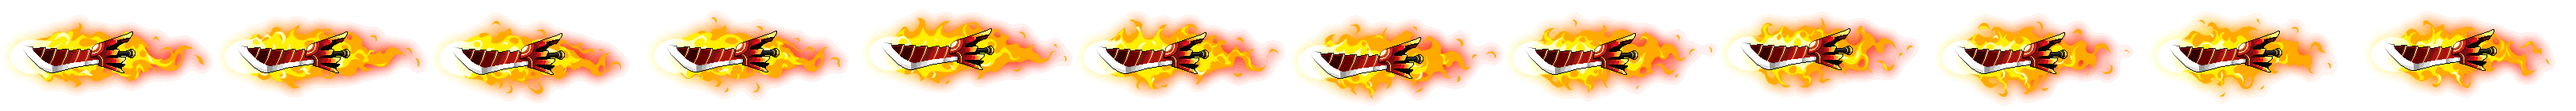
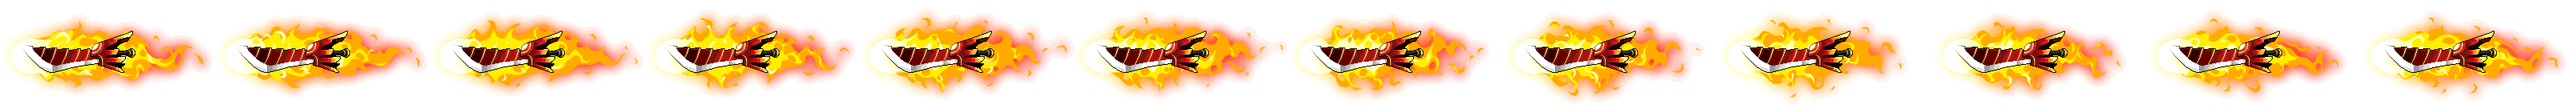
- Finished the flying sword hover animation (flames are in)
Also, some of the spritesheets for the flying sword flames had to be fixed because the frames were placed in the wrong order

diff --git a/js/skills.js b/js/skills.js
@@ -631,29 +631,73 @@ function flyingSwords() {
     }
     else {
         flyingSwordsAreUp = true;
+        let swordCount = 0;
         positions.forEach((someCoords) => {
             group = drawAnItemWithoutAnimating(1402179, 'stand1', 0, someCoords[0], someCoords[1], 135);
-            group.forEach((part) => {
-                part.classList.add('specialHoveringAnimation');
-            });
+            let additionalOffsets = [0, -64];
+            additionalOffsets[0] -= someCoords[0];
+            additionalOffsets[1] -= someCoords[1];
+            let additionalOffsets2 = [-40, -57];
+            additionalOffsets2[0] -= someCoords[0];
+            additionalOffsets2[1] -= someCoords[1];
+            directionDependentXOffset = 0;
+            directionDependentXOffset2 = 0;
+            if (swordCount == 1) {
+                directionDependentXOffset -= 100;
+                directionDependentXOffset2 -= 100;
+            }
+            if (swordCount == 2) {
+                directionDependentXOffset += 100;
+                directionDependentXOffset2 += 100;
+            }
+            swordCount++;
+            // flames
             let div = document.createElement('div');
             div.style.position = 'absolute';
             div.style.backgroundPositionX = '0px';
-            div.style.backgroundImage = 'url(./skills/forceAtom/forxeAtom2atom1parentAtom.png)';
-            let dimensions = skillEffect[0];
-            div.style.width = dimensions[0] + 'px';
-            div.style.height = dimensions[1] + 'px';
-            let origin = skillEffect[1];
-            div.style.top = AVATAR.offsetTop - origin[1] + additionalOffsets[1] + 'px';
+            div.style.backgroundImage = 'url(./skills/forceAtom/forceAtom2atom1parentAtom.png)';
+            let particleDimensions = classSkills[61101002].particles.dimensions.forceAtom2atom1parentAtom;
+            div.style.width = particleDimensions[0] + 'px';
+            div.style.height = particleDimensions[1] + 'px';
+            let origin = classSkills[61101002].particles.origins.forceAtom2atom1parentAtom;
+            //div.style.top = AVATAR.offsetTop - origin[1] + additionalOffsets[1] + 'px';
+            div.style.top = origin[1] + additionalOffsets[1] + 'px';
             div.style.transform = AVATAR.style.transform || 'scaleX(-1)';
             if (AVATAR.style.transform == '' || AVATAR.style.transform == 'scaleX(-1)') {
-                div.style.left = AVATAR.offsetLeft + origin[0] - dimensions[0] + additionalOffsets[0] + 'px';
+                div.style.left = origin[0] - particleDimensions[0] + additionalOffsets[0] + 'px';
             }
             else {
-                div.style.left = AVATAR.offsetLeft - origin[0] + additionalOffsets[0] + 'px';
+                div.style.left = -7 - origin[0] - additionalOffsets[0] - directionDependentXOffset + 'px';
             }
-            document.getElementById('gameArea').appendChild(div);
-            genericSpritesheetAnimation([div], 0, skillEffect[2]);
+            // tip
+            div.style.transform += 'rotate(90deg)';
+            let div2 = document.createElement('div');
+            div2.style.position = 'absolute';
+            div2.style.backgroundPositionX = '0px';
+            div2.style.backgroundImage = 'url(./skills/forceAtom/forceAtom2atom1parentAtomAdd1effect.png)';
+            let particleDimensions2 = classSkills[61101002].particles.dimensions.forceAtom2atom1parentAtomAdd1effect;
+            div2.style.width = particleDimensions2[0] + 'px';
+            div2.style.height = particleDimensions2[1] + 'px';
+            let origin2 = classSkills[61101002].particles.origins.forceAtom2atom1parentAtomAdd1effect;
+            //div2.style.top = AVATAR.offsetTop - origin2[1] + additionalOffsets2[1] + 'px';
+            div2.style.top = origin2[1] + additionalOffsets2[1] + 'px';
+            div2.style.transform = AVATAR.style.transform || 'scaleX(-1)';
+            div2.style.zIndex = 69;
+            if (AVATAR.style.transform == '' || AVATAR.style.transform == 'scaleX(-1)') {
+                div2.style.left = origin2[0] - particleDimensions2[0] + additionalOffsets2[0] + 'px';
+            }
+            else {
+                div2.style.left = -7 - origin2[0] - additionalOffsets2[0] - directionDependentXOffset2 + 'px';
+            }
+            div2.style.transform += 'rotate(90deg)';
+            group.forEach((part) => {
+                part.classList.add('specialHoveringAnimation');
+                part.appendChild(div);
+                part.appendChild(div2);
+            });
+            //document.getElementById('avatarAreaNew').appendChild(div);
+            genericSpritesheetAnimation([div], 0, classSkills[61101002].particles.delays.forceAtom2atom1parentAtom, false, true);
+            genericSpritesheetAnimation([div2], 0, classSkills[61101002].particles.delays.forceAtom2atom1parentAtomAdd1effect, false, true);
         });
     }
 }

diff --git a/js/skillData.js b/js/skillData.js
@@ -179,6 +179,11 @@ const classSkills = {
         mpCon: '20+Math.ceil(x/2)',
         effects: {'61101002effect': [[196, 217], [120, 215], [60, 90, 90, 90, 90, 90, 90, 90, 90, 90]], '61101002effect0': [[168, 256], [83, 162], [60, 90, 90, 90, 90, 90, 90, 90, 90, 90, 60]]},
         LTRB: [-400, -400, 400, 200],
+        particles: {
+            dimensions: {'forceAtom2atom1endEff2': [113, 48], 'forceAtom2atom1parentAtom': [115, 58], 'forceAtom2atom1parentAtomAdd1effect': [71, 20], 'forceAtom2atom1startEff': [159, 86], 'forceAtom2atom2endEff2': [164, 65], 'forceAtom2atom2parentAtom': [164, 77], 'forceAtom2atom2parentAtomAdd1effect': [90, 54], 'forceAtom2atom2startEff': [179, 115], 'forceAtom2atom3endEff2': [265, 107], 'forceAtom2atom3parentAtom': [271, 139], 'forceAtom2atom3startEff': [229, 156], 'forceAtom2atom4endEff2': [265, 107], 'forceAtom2atom4parentAtom': [271, 139], 'forceAtom2atom4startEff': [229, 156]},
+            origins: {'forceAtom2atom1endEff2': [52, 23], 'forceAtom2atom1parentAtom': [53, 28], 'forceAtom2atom1parentAtomAdd1effect': [71, 8], 'forceAtom2atom1startEff': [54, 41], 'forceAtom2atom2endEff2': [79, 31], 'forceAtom2atom2parentAtom': [79, 37], 'forceAtom2atom2parentAtomAdd1effect': [90, 27], 'forceAtom2atom2startEff': [12, 59], 'forceAtom2atom3endEff2': [123, 54], 'forceAtom2atom3parentAtom': [126, 70], 'forceAtom2atom3startEff': [43, 77], 'forceAtom2atom4endEff2': [110, 54], 'forceAtom2atom4parentAtom': [113, 70], 'forceAtom2atom4startEff': [43, 77]},
+            delays: {'forceAtom2atom1endEff2': [60, 60, 60], 'forceAtom2atom1parentAtom': [60, 60, 60, 60, 60, 60, 60, 60, 60, 60, 60, 60], 'forceAtom2atom1parentAtomAdd1effect': [300], 'forceAtom2atom1startEff': [120, 120, 120, 120, 120, 120], 'forceAtom2atom2endEff2': [60, 60, 60], 'forceAtom2atom2parentAtom': [999, 999, 999, 999, 999, 999, 999, 999, 999, 999, 999, 999], 'forceAtom2atom2parentAtomAdd1effect': [999, 999, 999, 999], 'forceAtom2atom2startEff': [120, 120, 120, 120, 120, 120], 'forceAtom2atom3endEff2': [120, 120], 'forceAtom2atom3parentAtom': [120, 120, 120, 120, 120, 120, 120, 120, 120, 120, 120, 120], 'forceAtom2atom3startEff': [120, 120, 120, 120, 120, 120], 'forceAtom2atom4endEff2': [120, 120], 'forceAtom2atom4parentAtom': [120, 120, 120, 120, 120, 120, 120, 120, 120, 120, 120, 120], 'forceAtom2atom4startEff': [120, 120, 120, 120, 120, 120]}
+        },
         action: [['alert', 0, 180]],
         reuseWaitTime: 773,
         hit: [[161, 136], [60, 60, 60, 60, 60, 60]],

diff --git a/js/character.js b/js/character.js
@@ -120,15 +120,21 @@ function updateCharacterDisplay() {
 }
 
 const levelUpGifTimings = [500, 90, 90, 90, 90, 90, 90, 90, 90, 90, 90, 90, 90, 90, 90, 90, 90, 90, 90, 90, 90];
-function genericSpritesheetAnimation(animations, frame, timings, deleteGroupWhenDone=false) {
+function genericSpritesheetAnimation(animations, frame, timings, deleteGroupWhenDone=false, infiniteLooping=false) {
+    let beforeFrame = frame;
     if (frame >= timings.length) {
-        if (deleteGroupWhenDone) {
-            animations[0].parentElement.remove();
+        if (infiniteLooping) {
+            frame = 0;
         }
         else {
-            animations[0].remove();
+            if (deleteGroupWhenDone) {
+                animations[0].parentElement.remove();
+            }
+            else {
+                animations[0].remove();
+            }
+            return;
         }
-        return;
     }
     Array.from(animations).forEach((animation) => {
         if (frame == 0) {
@@ -138,7 +144,7 @@ function genericSpritesheetAnimation(animations, frame, timings, deleteGroupWhen
             animation.style.backgroundPositionX = parseInt(animation.style.backgroundPositionX) - parseInt(animation.style.width) + 'px';
         }
     });
-    let data = [animations, frame+1, timings, deleteGroupWhenDone];
+    let data = [animations, frame+1, timings, deleteGroupWhenDone, infiniteLooping];
     scheduleToGameLoop(timings[frame], genericSpritesheetAnimation, data);
 }
 
